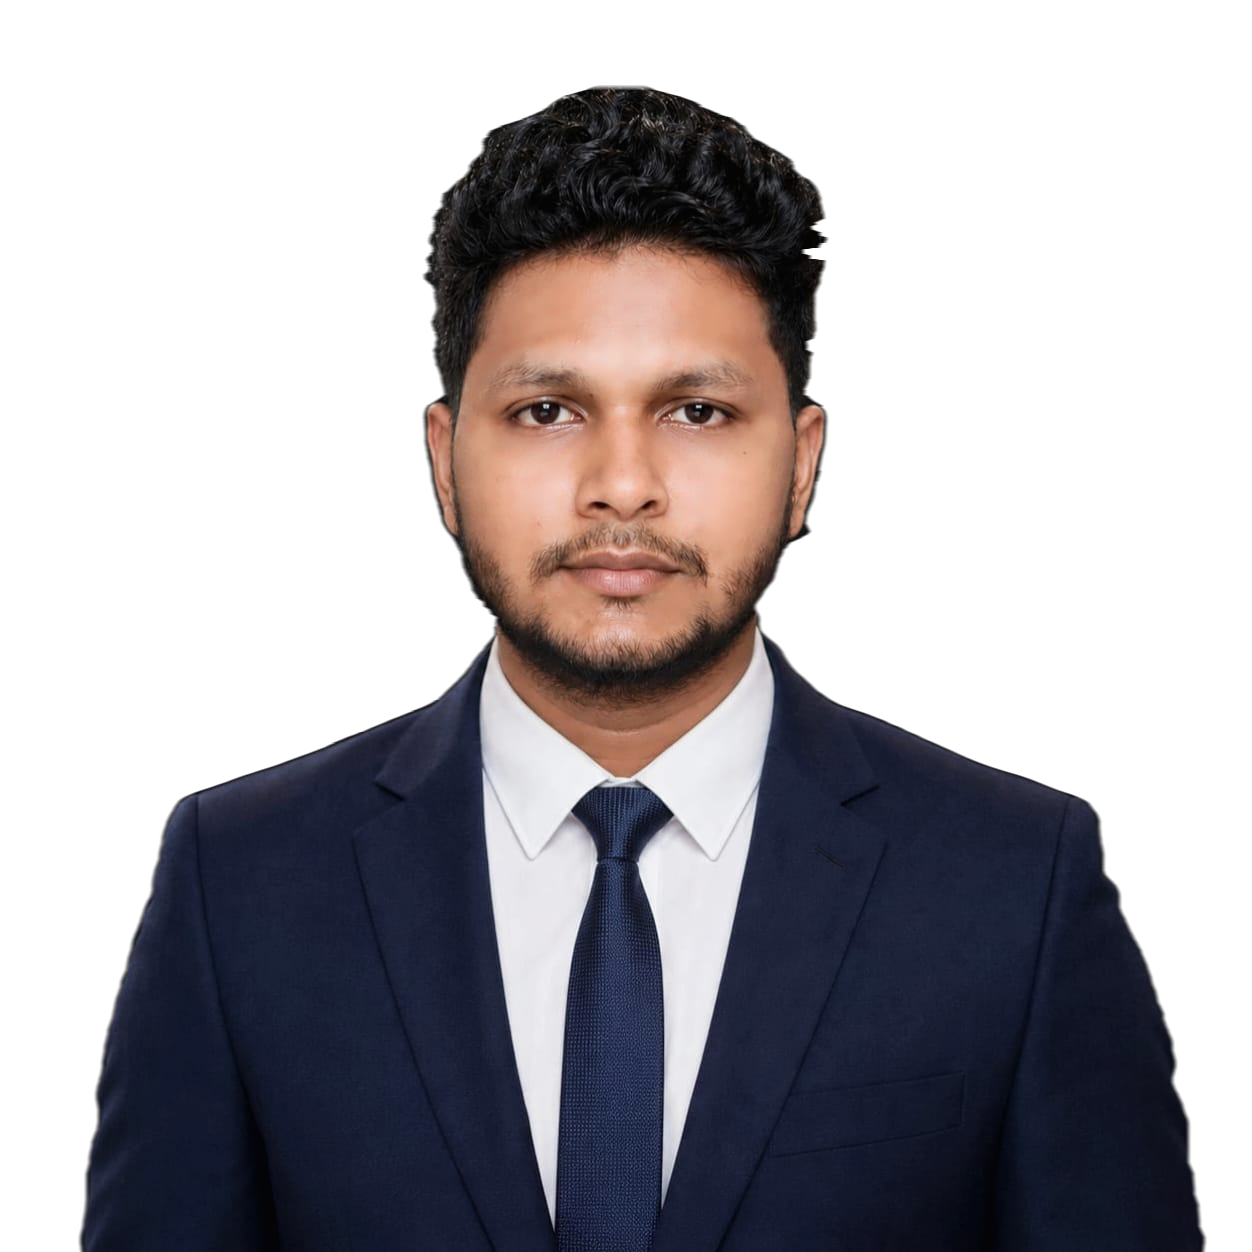
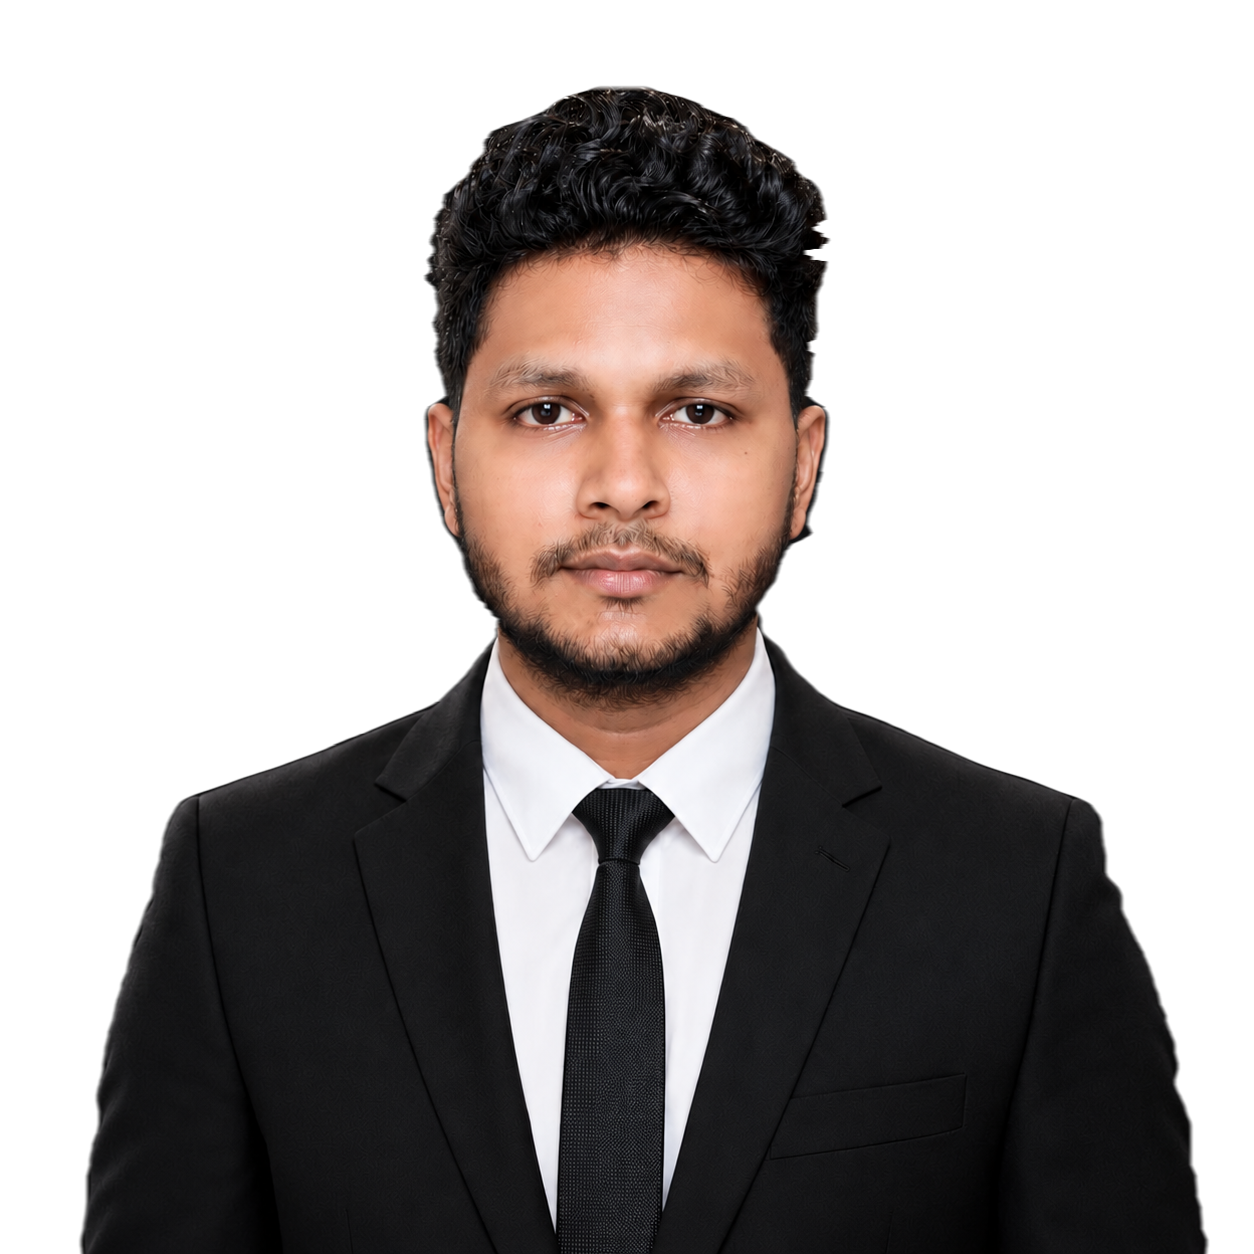
fix(hero): enable dynamic profile photo updates and apply studio cutout for new black suit portrait

diff --git a/src/components/portfolio/CutoutPortrait.tsx b/src/components/portfolio/CutoutPortrait.tsx
@@ -60,125 +60,28 @@ export function CutoutPortrait({
   badge1 = "Java • DSA",
   badgeRole = "Full-Stack Developer",
 }: CutoutPortraitProps) {
-  // Helper to test if image is Gopal's photo (default asset, uploaded me-b.png, or gopal-profile)
-  const isGopalPhoto = (src?: string) => {
-    if (!src || src.trim().length === 0) return true;
+  // Resolve photo source:
+  // If empty, placeholder asset, or me-b (the raw studio shot),
+  // return gopalCutout (which is the high-res transparent studio cutout in the black suit).
+  // Otherwise, use the user's uploaded custom photo URL directly.
+  const resolvePhoto = (src?: string) => {
+    if (!src || src.trim().length === 0) return gopalCutout;
     const clean = src.trim().toLowerCase();
-    return (
-      clean.includes("gopal-profile") ||
-      clean.includes("me-b") ||
-      clean.includes("gopal-cutout") ||
-      clean.includes("default")
-    );
+    if (
+      clean.includes("gopal-profile.jpg") ||
+      clean === "/assets/gopal-profile.jpg" ||
+      clean.includes("me-b.png") ||
+      clean.includes("gopal-cutout")
+    ) {
+      return gopalCutout;
+    }
+    return src.trim();
   };
 
-  const initialSource = isGopalPhoto(photoSrc) ? gopalCutout : photoSrc!.trim();
-  const [currentPhoto, setCurrentPhoto] = useState<string>(initialSource);
+  const [currentPhoto, setCurrentPhoto] = useState<string>(() => resolvePhoto(photoSrc));
 
   useEffect(() => {
-    if (isGopalPhoto(photoSrc)) {
-      setCurrentPhoto(gopalCutout);
-      return;
-    }
-
-    const cleanSrc = photoSrc!.trim();
-    let isCancelled = false;
-    const img = new Image();
-    img.crossOrigin = "anonymous";
-    img.onload = () => {
-      if (isCancelled) return;
-      try {
-        const canvas = document.createElement("canvas");
-        const w = img.naturalWidth || img.width;
-        const h = img.naturalHeight || img.height;
-        canvas.width = w;
-        canvas.height = h;
-        const ctx = canvas.getContext("2d");
-        if (!ctx) {
-          setCurrentPhoto(cleanSrc);
-          return;
-        }
-
-        ctx.drawImage(img, 0, 0);
-        const imgData = ctx.getImageData(0, 0, w, h);
-        const data = imgData.data;
-
-        // Check if image already has transparent pixels
-        let hasAlpha = false;
-        for (let i = 3; i < data.length; i += 40) {
-          const a = data[i] ?? 255;
-          if (a < 200) {
-            hasAlpha = true;
-            break;
-          }
-        }
-
-        if (hasAlpha) {
-          setCurrentPhoto(cleanSrc);
-          return;
-        }
-
-        // If opaque image, knock out outer background from left/right/top so it never overrides the orange shape
-        const bgR = data[0] ?? 0;
-        const bgG = data[1] ?? 0;
-        const bgB = data[2] ?? 0;
-
-        for (let y = 0; y < h; y++) {
-          for (let x = 0; x < w * 0.48; x++) {
-            const idx = (y * w + x) * 4;
-            const r = data[idx] ?? 0;
-            const g = data[idx + 1] ?? 0;
-            const b = data[idx + 2] ?? 0;
-            const d = Math.sqrt((r - bgR) ** 2 + (g - bgG) ** 2 + (b - bgB) ** 2);
-            if (d < 30) {
-              data[idx + 3] = 0;
-            } else {
-              break;
-            }
-          }
-          for (let x = w - 1; x > w * 0.52; x--) {
-            const idx = (y * w + x) * 4;
-            const r = data[idx] ?? 0;
-            const g = data[idx + 1] ?? 0;
-            const b = data[idx + 2] ?? 0;
-            const d = Math.sqrt((r - bgR) ** 2 + (g - bgG) ** 2 + (b - bgB) ** 2);
-            if (d < 30) {
-              data[idx + 3] = 0;
-            } else {
-              break;
-            }
-          }
-        }
-
-        for (let x = 0; x < w; x++) {
-          for (let y = 0; y < h * 0.35; y++) {
-            const idx = (y * w + x) * 4;
-            const r = data[idx] ?? 0;
-            const g = data[idx + 1] ?? 0;
-            const b = data[idx + 2] ?? 0;
-            const d = Math.sqrt((r - bgR) ** 2 + (g - bgG) ** 2 + (b - bgB) ** 2);
-            if (d < 30) {
-              data[idx + 3] = 0;
-            } else {
-              break;
-            }
-          }
-        }
-
-        ctx.putImageData(imgData, 0, 0);
-        setCurrentPhoto(canvas.toDataURL("image/webp", 0.95));
-      } catch {
-        setCurrentPhoto(cleanSrc);
-      }
-    };
-    img.onerror = () => {
-      if (!isCancelled) setCurrentPhoto(gopalCutout);
-    };
-    img.src = cleanSrc;
-
-    return () => {
-      isCancelled = true;
-    };
+    setCurrentPhoto(resolvePhoto(photoSrc));
   }, [photoSrc]);
 
   return (
